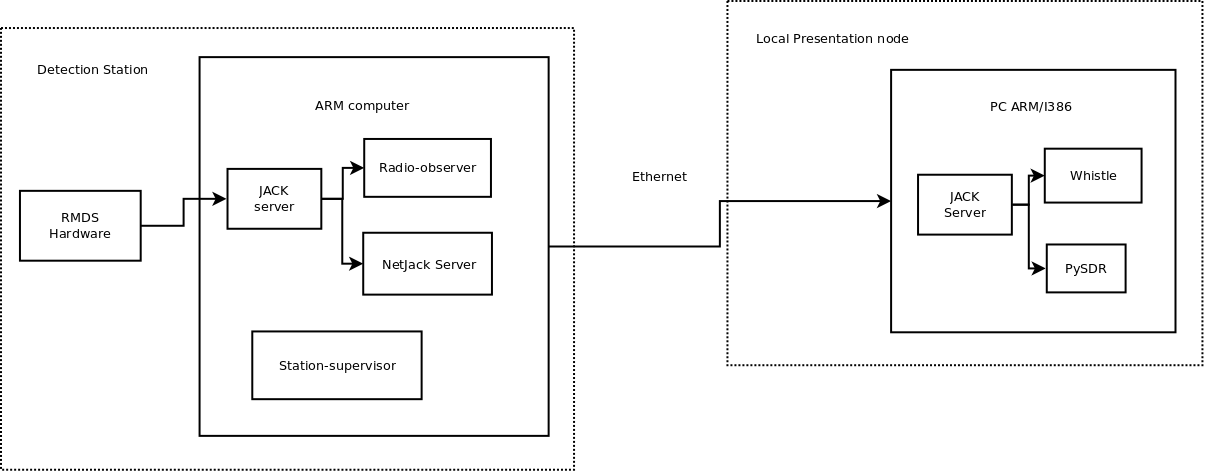
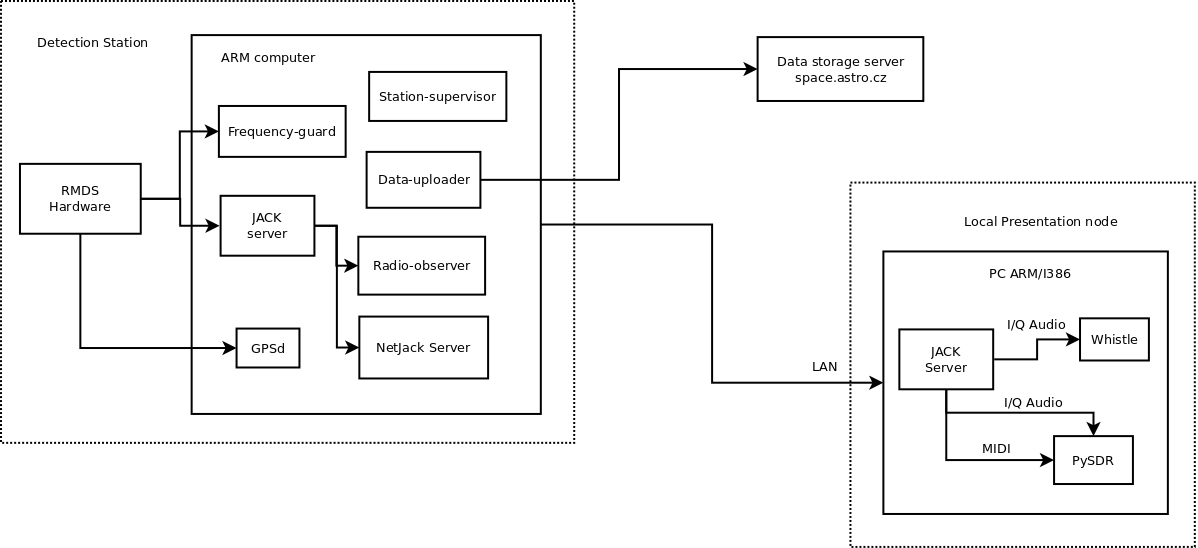
system block schematics improved.

diff --git a/README.md b/README.md
@@ -1,7 +1,18 @@
-RMDS Station Supervisor
+Measuring Station Supervisor
 =======================
 
-RMDS station management software package.
+Measuring station management software package. It is used for controlling MLAB's measurement station systems.
+
+Supported measurement stations
+-------------
+
+*   Radio meteor detection stations - RMDS01A, RMDS01B, RMDS02A, RMDS02B, RMDS02C
+
+Station hardware supported in future
+-------------
+
+*   Weather stations AWS01B
+*   Visual meteod detection stations VMDS01A 
 
 Installation
 =======
@@ -10,4 +21,4 @@ Installation
 Dependencies
 ===========
 
-Uses pymlab I2C bindings
+Uses pymlab I2C bindings to control I2C devices such as CLKGEN01B
